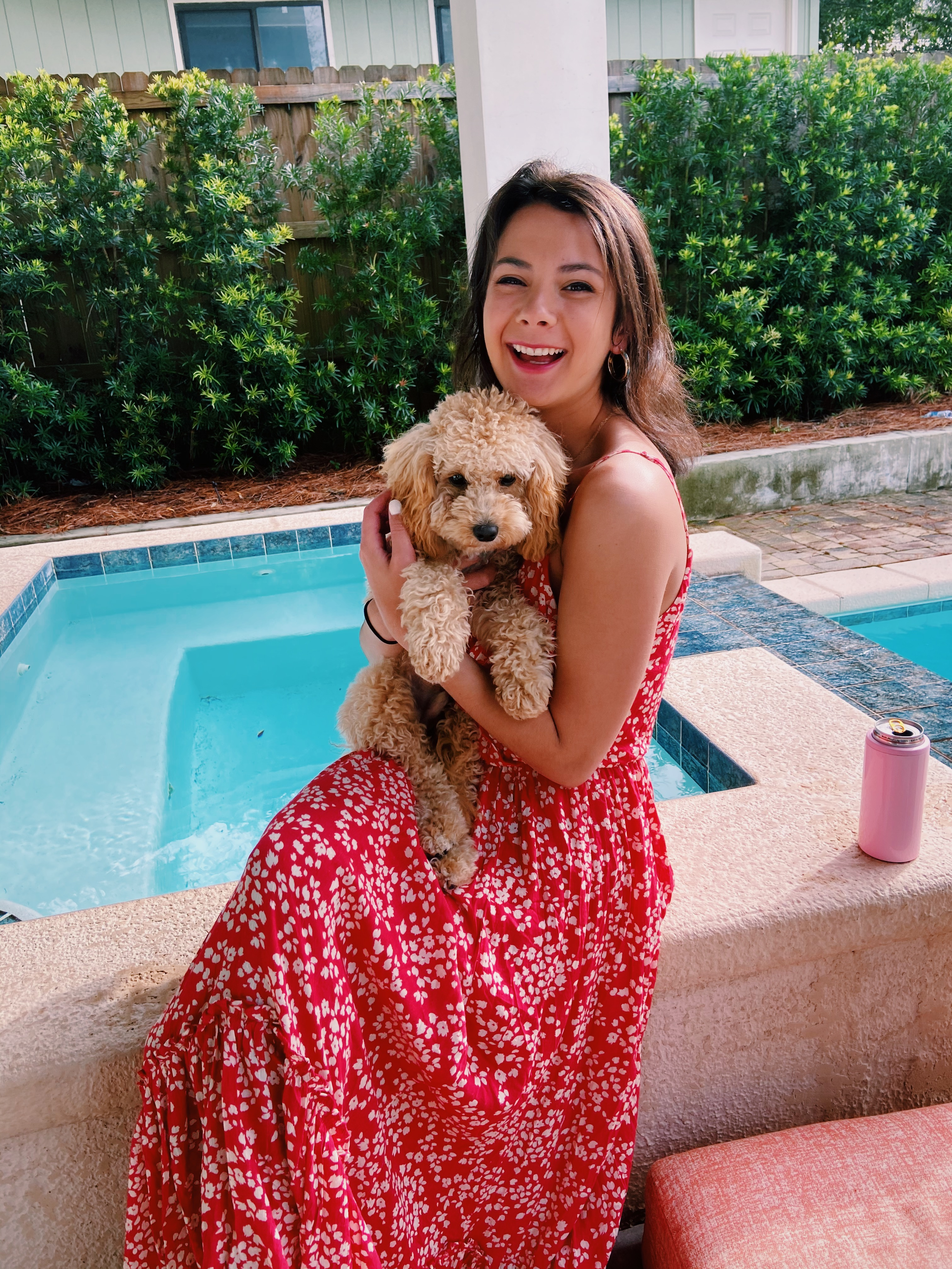
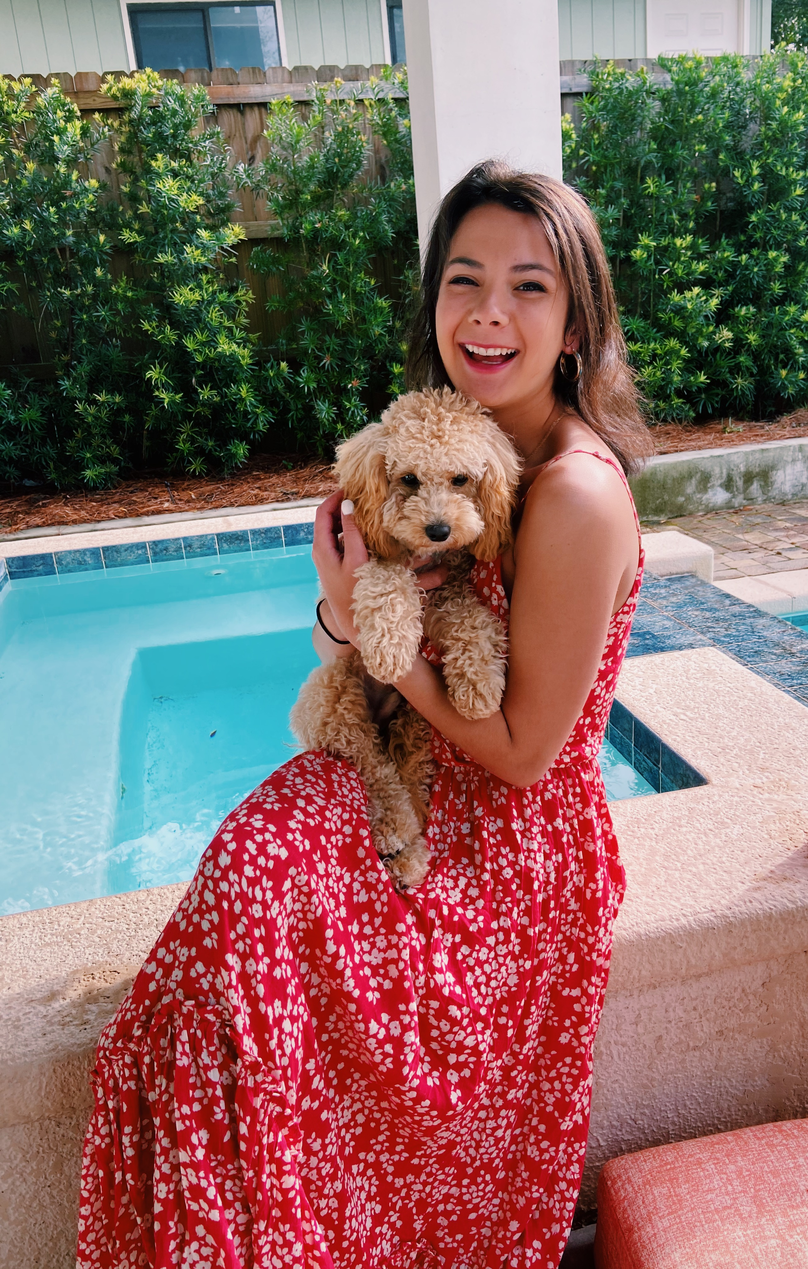
Edits Made before Final Preparation

diff --git a/about.html b/about.html
@@ -47,62 +47,62 @@
           <h1>Hi! My name is Celia Diller- a UI/UX Design Student. Enjoy My Work! </h1>
         </div>
       </div>
-      <!-- For the hero section -->
+    </div>
 
-
-      <div class="container">
-        <picture>
-          <source srcset="img/profile.jpg" media="(max-width:767px)">
-          <img src="img/profile.jpg" alt="Celia Diller profile">
-        </picture>
+    <!-- For the hero section -->
+    <div class="row">
+      <div class="col-md-6">
+        <div class="custom-sizea">
+          <picture>
+            <source srcset="img/profile.jpg" media="(max-width:767px)">
+            <img src="img/profile.jpg" alt="Celia Diller profile">
+          </picture>
+        </div>
       </div>
 
-      <main>
-        <p>
-          My name is Celia Diller, and I graduated from St. Lawrence University in upstate New York with a BS in
-          Biology
-          and a Business in the Liberal Arts Degree. I rode on a nationally ranked equestrian team for all 4 years
-          and
-          am currently a UI/UX design student and a barista! While I am just starting out my career in the UI/UX
-          design
-          field, I had internships with social media marketing and website design fields. My artistic side bloomed
-          during college when I started to create drawings and paintings for fun. I love creating content that
-          helps
-          small businesses grow. I have juggled many things in the past and strive to do my best work with
-          everything I
-          take on. Particularly, I would like to work as a UI/UX designer for a biotech company so I can combine
-          my love
-          of design and hard work of learning biology into a career. I am looking for a place where I can strive
-          to be
-          my best innovative and creative self.
-        </p>
+      <div class="col-md-6">
+        <div class="descWrappera">
+          <p>
+            My name is Celia Diller, and I graduated from St. Lawrence University in upstate New York with a BS in
+            Biology
+            and a Business in the Liberal Arts Degree. I rode on a nationally ranked equestrian team for all 4 years
+            and
+            am currently a UI/UX design student and a barista! While I am just starting out my career in the UI/UX
+            design
+            field, I had internships with social media marketing and website design fields. My artistic side bloomed
+            during college when I started to create drawings and paintings for fun. I love creating content that
+            helps
+            small businesses grow. I have juggled many things in the past and strive to do my best work with
+            everything I
+            take on. Particularly, I would like to work as a UI/UX designer for a biotech company so I can combine
+            my love
+            of design and hard work of learning biology into a career. I am looking for a place where I can strive
+            to be
+            my best innovative and creative self.
+          </p>
 
+          <h3>Skills and Tools:</h3>
+          <ul>
+            <li>Generative & Evaluative Research</li>
+            <li>Usability Research and Testing</li>
+            <li>Preference & A/B Testing</li>
+            <li>Persona and Brand Development</li>
+            <li>User Interviews</li>
+            <li>Task Analysis and User Flows</li>
+            <li>Knowledge of the standards of IOS and Android</li>
+            <li>Data Analysis</li>
+            <li>Basic HTML, CSS, and JavaScript</li>
+          </ul>
 
-        <h3>Skills and Tools:</h3>
-        <ul>
-          <li>Generative & Evaluative Research</li>
-          <li>Usability Research and Testing</li>
-          <li>Preference & A/B Testing</li>
-          <li>Persona and Brand Development</li>
-          <li>User Interviews</li>
-          <li>Task Analysis and User Flows</li>
-          <li>Knowledge of the standards of IOS and Android</li>
-          <li>Data Analysis</li>
-          <li>Basic HTML, CSS, and JavaScript</li>
-        </ul>
-
-        <h3>Tools Used:</h3>
-
-
-        <ul>
-          <li>Figma</li>
-          <li>Adobe XD</li>
-          <li>Marvel</li>
-          <li>Procreate</li>
-          <li>Adobe Illustrator</li>
-          <li>Atom</li>
-        </ul>
-      </main>
+          <h3>Tools Used:</h3>
+          <ul>
+            <li>Figma and Marvel</li>
+            <li>Adobe Illustrator and Adobe XD</li>
+            <li>Procreate</li>
+            <li>Atom</li>
+          </ul>
+        </div>
+      </div>
     </div>
 
     <!-- For your footer -->

diff --git a/index.html b/index.html
@@ -59,7 +59,7 @@
       <div class="row">
         <div class="col-md-6">
           <div class="descWrapper">
-            <h3>Graphic Detail</h3>
+            <h2>Graphic Detail</h2>
             <p>A detailed vintage clothing app that is ready to add something new to your closet!</p>
             <a href="graphic_detail.html" class="button contact">View Project</a>
           </div>
@@ -84,7 +84,7 @@
 
         <div class="col-md-6">
           <div class="descWrapper">
-            <h3>Barcelona</h3>
+            <h2>Barcelona</h2>
             <p>A tapas app that helps explain the variety of food items on the menu</p>
             <a href="#" class="button contact">View Project</a>
           </div>
@@ -94,7 +94,7 @@
       <div class="row">
         <div class="col-md-6">
           <div class="descWrapper">
-            <h3>Let's Eat!</h3>
+            <h2>Let's Eat!</h2>
             <p> A meal planner app that encourages healthy eating to all users</p>
             <a href="#" class="button contact">View Project</a>
           </div>
@@ -120,7 +120,7 @@
 
         <div class="col-md-6">
           <div class="descWrapper">
-            <h3>Adorn You</h3>
+            <h2>Adorn You</h2>
             <p>A app that allows local artist to share and sell their work!</p>
             <a href="#" class="button contact">View Project</a>
           </div>

diff --git a/css/style.css b/css/style.css
@@ -20,16 +20,37 @@ body {
 /*For Images*/
 img {
   width: 100%;
-}
+  }
+
+  /* Resize images */
+  .custom-sizea img {
+      width: 100%;
+      height: 100%;
+      padding-top: 70px;
+      padding-left: 15px;
+  }
+
+  .custom-sizeb img {
+    width: 90%;
+    height: 100%;
+    padding-top: 50px;
+    padding-left: 50px;
+  }
+
+
+
 
 .center {
   text-align: center;
 }
 
 .descWrapper {
-  padding: 20px
+  padding: 15px
 }
 
+.descWrappera {
+  padding: 45px
+}
 /* -------------------------OVERALL LAYOUT STYLING -------------------------- */
 /* -------------------------------------------------------------------------- */
 
@@ -44,7 +65,7 @@ img {
 }
 
 main {
-  padding-top: 56px;
+  padding-top: 0px;
 }
 
 .menu li {
@@ -68,20 +89,25 @@ main {
 }
 
 #hero h2 {
-  text-align: center;
+  text-align: left;
   /* Centers text */
+}
+
+#hero h3 {
+  margin: 0;
+  padding-bottom: 0px
 }
 
 /*For Text*/
 body {
   font-family: 'Playfair Display', sans-serif;
   background-color: #b2a083;
-  font-size: 18px;
+  font-size: 16px;
   /* Sets the font size to 16px */
   font-weight: 400;
-  /* Sets the font weight to 300 */
-  line-height: 1.6;
-  /* Sets the line-height to 1.6 * the font-size */
+  /* Sets the font weight to 400 */
+  line-height: 1.8;
+  /* Sets the line-height to 1.8 * the font-size */
   color: #4a4a4a;
 }
 

diff --git a/graphic_detail.html b/graphic_detail.html
@@ -53,7 +53,7 @@
         <div class="row">
           <div class="col-md-6">
             <div class="descWrapper">
-              <h3>Graphic Detail</h3>
+              <h2>Graphic Detail</h2>
               <p>A detailed vintage clothing app that is ready to add something new to your closet!</p>
             </div>
           </div>
@@ -67,6 +67,7 @@
         </div>
 
         <div class="container">
+          <div class="custom-sizeb">
           <p>Graphic Detail was my first design in the course. It helped me learn all what
             UI/UX design was about. I got to create my first design by looking at what
             others have done with their apps and coordinate my design with that to
@@ -84,6 +85,7 @@
 
         </div>
       </div>
+    </div>
     </div>
 
     <!-- For your footer -->
